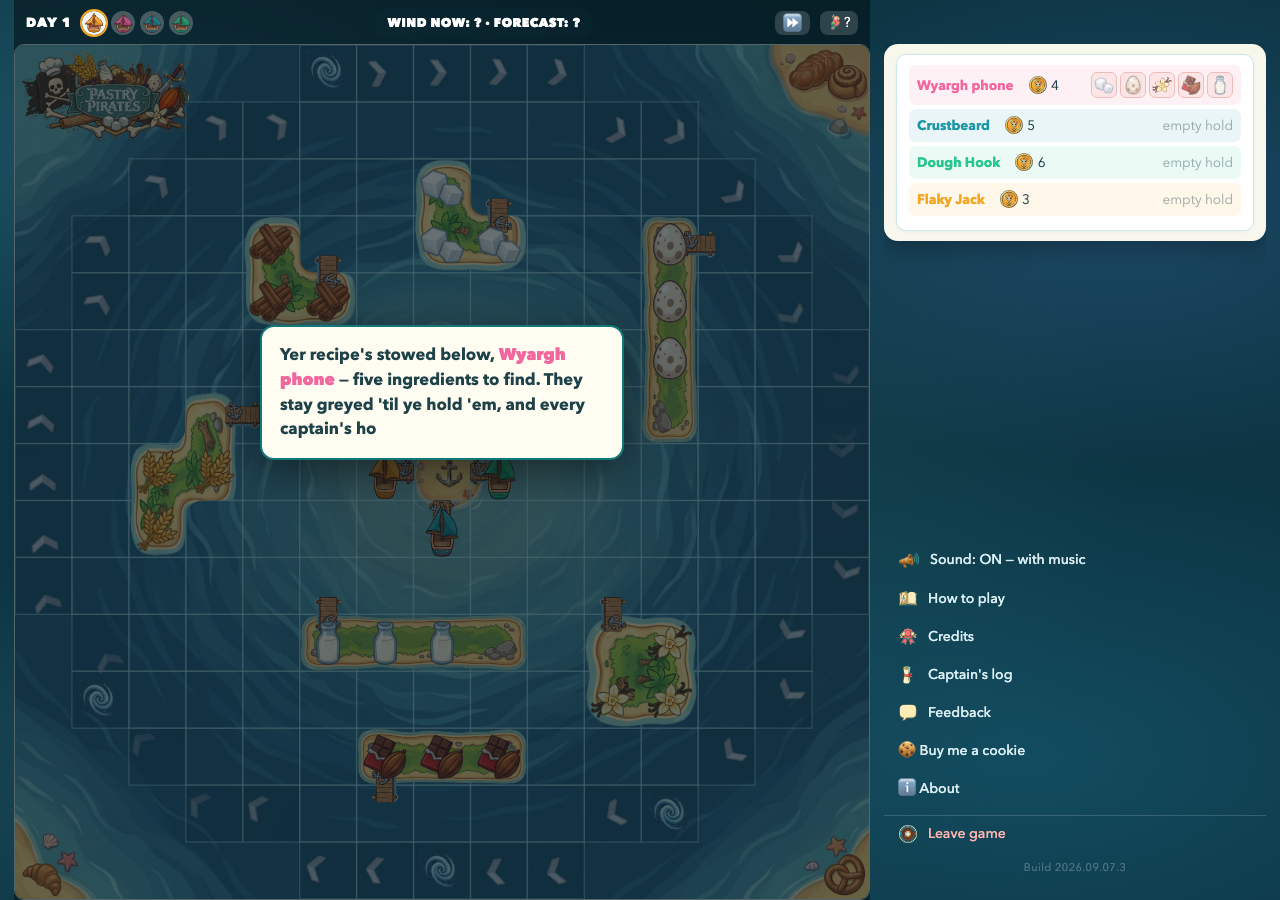
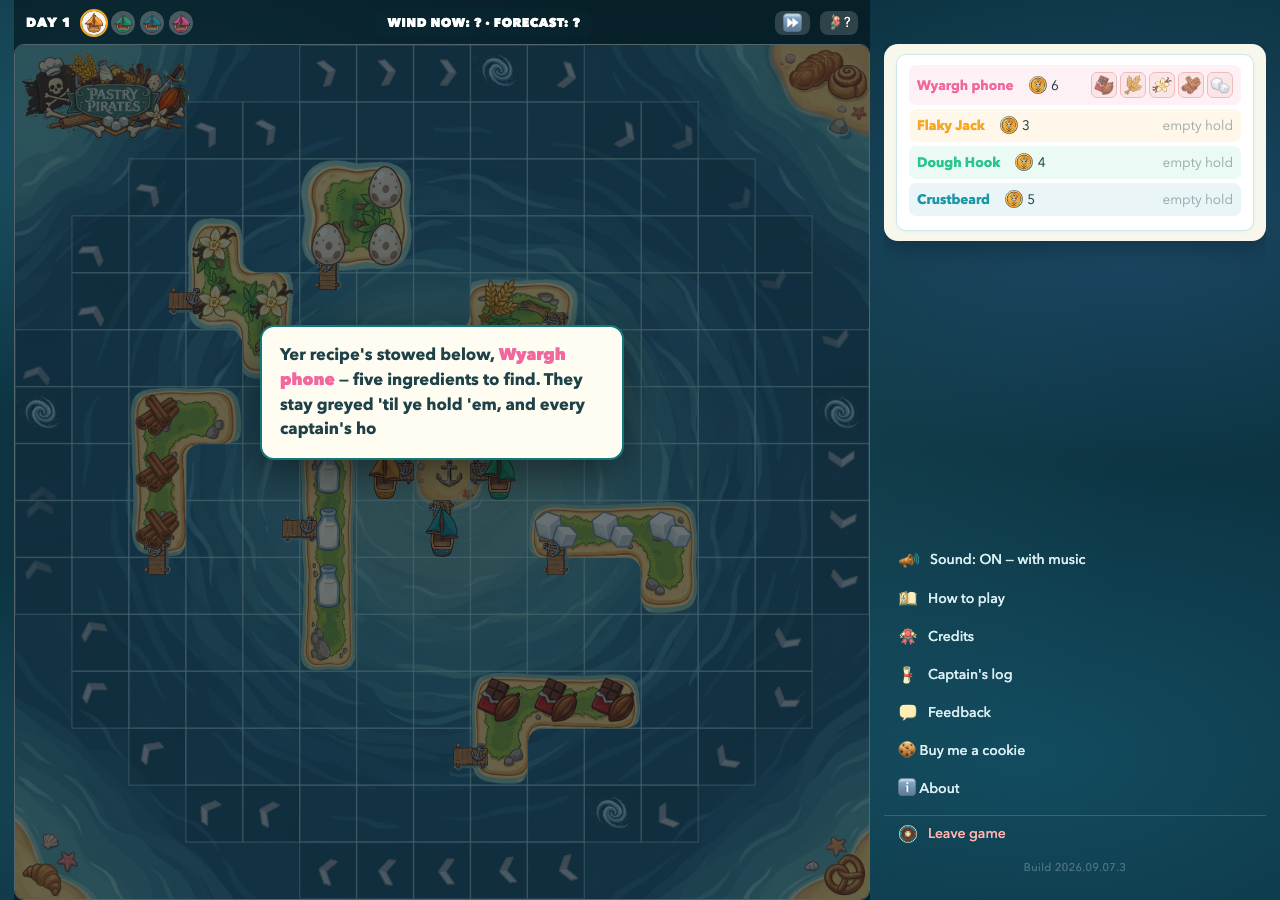
The recipe card is his card at any size: every dimension rides his ratios
Wyatt, 2026-09-10: "I don't care about the objective absolute sizes. I just care about the
ratios. So please shrink things according to the ratios that I outlined in the artifact."

The card's width is now a NUMBER (--rcWn) and every dimension inside it is his tuner number x
--rcK, where k = the width the layout can give / the width he tuned at (360 phone & tablet, 400
desktop). A 225px phone card and a 396px desktop card are both his card, drawn smaller.

Measured by the new scripts/qa/_picker_ratio_check.mjs at 390, 768, 1280x800, 1440x900 and
1920x1080: padding, title size, image width, image shape, both gaps, the ingredient inset and the
back-card peek all read 1.00 x (his number x k); card height equals his tuner card at that scale
within 1px; swapping the pair never moves the stack.

That measurement found two places the game had never drawn what the tuner drew:
- the title still wore the old full-size card's chrome (12px above the name, 9px below, 12px and
  10px each side), so his "gap under the image, 11px" drew as 23px. It now has his gap and a rule
  inset 10px each side, and nothing else.
- his 18% peek slid the tuner's back card 18%, and its .965 scale took 3.5% back, so what he SAW
  was 14.5%. The game was still showing 20%. The sliver is now 14.5%, derived into the transform;
  the smaller reservation also gave the desktop card back 20px (376 -> 396 of his 400).
[…]

diff --git a/index.html b/index.html
@@ -2748,12 +2748,30 @@
        — the box collapsed 362px -> 280px, `100%` collapsed with it, and the card went 250 -> 216
        under his thumb. A constant cannot do that. The row's own min-width below is what stops the
        BOX collapsing, so the circle keeps its place too. */
-    /* ⚠ HIS "50% BIGGER" IS NOT HERE, AND THE REASON IS ARITHMETIC — see the parked note in
-       stage.js. A 375px card needs ~553px of row; the captains column it now lives in has ~382. */
-    /* ⭐ HIS NUMBERS, 2026-09-10, sent from the tuner. Every value below is his; none is derived,
-       adjusted or rounded by me. "send me the numbers and I wire exactly those" — this is that. */
-    --rcW: 360px;                          /* phone & tablet: one card, his point 1 */
-    --rcPeek: calc(var(--rcW) * 0.18);     /* his back-card peek */
+    /* ⭐ HIS CARD IS A SET OF PROPORTIONS, NOT A SET OF PIXELS — Wyatt, 2026-09-10: "I don't care
+       about the objective absolute sizes. I just care about the ratios. So please shrink things
+       according to the ratios that I outlined in the artifact."
+       That rule dissolves both places his numbers would not fit. He tuned each card at a REFERENCE
+       width (360 for phone & tablet, 400 for desktop); whatever width the layout can actually
+       give, every dimension scales by `--rcK = actual / reference`, so a 225px phone card and a
+       376px desktop card are both HIS card, drawn smaller. Nothing inside it is a pixel count any
+       more — which is also rule 9.
+       ⚠ THE WIDTH IS A NUMBER, NOT A LENGTH, and that is load-bearing. CSS cannot divide one
+       length by another to get a ratio, and getComputedStyle hands a calc() custom property back
+       as an UNRESOLVED string — so a JS reader of `--rcPeek: calc(...)` was getting NaN and
+       falling back to a guess. Plain numbers are readable by both. */
+    --rcWn: 360;                           /* the card's width, as a number */
+    --rcRef: 360;                          /* the width he tuned this card at */
+    /* HIS 18% IS WHAT HE SAW AS 14.5%, and this number is what shows. The tuner's "back card peek"
+       slid the back card 18% of a card-width and then scaled it to .965 from its left edge, which
+       pulls its right edge back 3.5% — so the sliver on his screen was 14.5% of the card. This
+       game's value means the sliver itself (the tap strip, the circle and the row's reservation
+       all read it that way), and it was still showing 20%: his number had reached the layout but
+       not the card. Measured 2026-09-10, 0.20 against his 0.145. */
+    --rcPeekFrac: 0.145;
+    --rcW: calc(var(--rcWn) * 1px);
+    --rcK: calc(var(--rcWn) / var(--rcRef));
+    --rcPeek: calc(var(--rcW) * var(--rcPeekFrac));
     --rcGap: 10px;                          /* his 6.5: the circle sits 10px off the back card */
     --rcSwap: 34px; }
   /* ⭐ THE TWO PLACES A NARROW SCREEN IS TREATED DIFFERENTLY, and both numbers are measured
@@ -2771,13 +2789,14 @@
      run clean off the right edge. That is D-38's one unacceptable outcome, a control a captain
      cannot reach, and a sea trial has already caught this exact failure once on passplay-phone.
      So his 360 stands from 431px up (every tablet, and the narrow desktop windows), and a true
-     phone keeps the measured 225. It is on his sheet as a question, because "one card for both"
-     was his instruction and only he can choose which half of it gives way. */
+     phone keeps the measured 225 — and since his ratio ruling the same day, 225 is not a different
+     card: it is his 360 card drawn at 0.625, every proportion intact. That settles the question this
+     note used to park on his sheet ("which half of 'one card for both' gives way"): neither does. */
   @media (max-width: 430px) {
-    body.pp4Stage #actionPanel .apBtns:has(.recipeList) { --rcW: 225px; }
+    body.pp4Stage #actionPanel .apBtns:has(.recipeList) { --rcWn: 225; }
   }
   @media (max-width: 360px) {
-    body.pp4Stage #actionPanel .apBtns:has(.recipeList) { --rcW: 180px; }
+    body.pp4Stage #actionPanel .apBtns:has(.recipeList) { --rcWn: 180; }
   }
   body.pp4Stage #actionPanel .apBtns:has(.recipeList) .apBtn {
     /* ⚠ max-width WAS 250px AND WOULD HAVE SILENTLY EATEN HIS ITEM 3. --rcW is now 375 on a desktop
@@ -2793,7 +2812,7 @@
        clean move. */
     /* ⭐ HIS 2026-09-10 SIZES. The card's transition is derived from RC_SWAP_MS in stage.js rather
        than typed here — .38s IS his 380, and if he re-dials the swap only that constant moves. */
-    padding:14px; transition:transform .38s cubic-bezier(.22,.61,.36,1), opacity .38s; }
+    padding:calc(14px * var(--rcK)); transition:transform .38s cubic-bezier(.22,.61,.36,1), opacity .38s; }
   /* ⚠ THE ROOMIER PADDING IS PART OF HIS DESKTOP ASK AND WAS REACHING PHONES — caught by a CEO
      review, 2026-09-10, after I claimed "below 901 the card is byte-for-byte what it was". It was
      not: this line sat under a comment headed "HIS 2026-09-10 SIZES" with no width on it, so a
@@ -2801,8 +2820,8 @@
      TRANSITION is deliberately not scoped — .38s is derived from RC_SWAP_MS and belongs to the swap
      at every size. */
   @media (min-width: 901px) {
-    body.pp4Stage #actionPanel .apBtns:has(.recipeList) { --rcW: 400px; }
-    body.pp4Stage #actionPanel .apBtns:has(.recipeList) .apBtn { padding:23px; }
+    body.pp4Stage #actionPanel .apBtns:has(.recipeList) { --rcWn: 400; --rcRef: 400; }
+    body.pp4Stage #actionPanel .apBtns:has(.recipeList) .apBtn { padding:calc(23px * var(--rcK)); }
   }
   /* ⭐ "make the cards larger vertically by 50%" — a MIN-HEIGHT derived from the card's own width,
      not a typed pixel count (rule 9). The card was landing near 0.58 of its width; 0.87 is that
@@ -2876,9 +2895,10 @@
        out as 0.2 x min(250, cardWidth - 108) = 28px. Measured, not reasoned: back-card visible
        fraction 0.098 against the 0.20 he asked for.
        So the offset is written as a plain element-relative percentage, which is what a transform
-       wants anyway. -28% is -50% (the centring half) + 22%; the scale below pulls the right edge
-       back by ~1.75% of the width, landing the visible sliver on ~20.25%. */
-    transform:translateX(-28%) scale(.965) rotate(1.1deg);
+       wants anyway. The offset itself is derived from --rcPeekFrac on the next line. */
+    /* the sliver, derived: centred (-50%), then out by the sliver plus the 1.75% the .965 scale
+       takes back on this side (it scales from the top CENTRE here, so half of the 3.5%) */
+    transform:translateX(calc(-50% + (var(--rcPeekFrac) + 0.0175) * 100%)) scale(.965) rotate(1.1deg);
     transform-origin:50% 0; filter:brightness(.93) saturate(.88); opacity:.97; }
   /* THE TAP STRIP over the back card's visible 20% — his 6.7. Transparent by design: the thing a
      captain sees and aims at is the card edge underneath it. Sized and placed from the same three
@@ -2984,46 +3004,35 @@
      with a card that is not on screen, and the ingredient rows it aligned are icons now, not rows.
      Deleted rather than left inert — a rule that no longer applies is the next reader's wrong
      answer about why the layout works. */
-  body.pp4Stage #actionPanel .apBtn .recipeTitle { font-size:19.5px; line-height:1.2; margin-bottom:6px; }
-  /* ⭐ THE TITLE RESERVES ITS LINES, OR THE SWAP JUMPS — the OTHER half of his 2026-09-10 item 1.
-     Fixing the artwork's aspect made two cards the same height at 1920 and 768, and the phone still
-     lurched: measured, 153px against 168px, with the whole difference in the TITLE — 39px for a
-     two-line name against 54px for a three-line one. Recipe names are not one length and a narrow
-     card wraps the long ones further, so which recipe is in FRONT decided how tall the card was.
-     This is the fault the retired subgrid block above used to cover. Its retirement note argued
-     that "one card at a time cannot fall out of step with a card that is not on screen" — true of a
-     static picker, and untrue the moment the cards SWAP, which is exactly what brings the other one
-     on screen. Reserving three lines is the version with no second element in it: no subgrid, no
-     @supports, and a two-line name simply sits in a three-line box.
-     ⚠ 54px IS MEASURED, NOT CHOSEN, and my first attempt at it was a guess that was WRONG IN BOTH
-     DIRECTIONS. I reserved `3 * 1.2em` = 45px on the theory that 39px was two lines; it is not.
-     Every one of the 21 names in RECIPE_BOOK was then rendered at each card width:
-         card 225 -> longest is 54px ("Spiced Cocoa Shortbread")
-         card 250 -> longest is 54px ("Molten Chocolate Lava Cake")
-         card 365 -> longest is 39px — every name fits on ONE line
-     A one-line title box is 39px (a 15px line plus its margins), so 54 is exactly two lines. My 45
-     sat between the two and reserved a line and a half, which is no line count at all.
-     ⚠ AND BELOW THE DESKTOP BREAKPOINT ONLY, because at 365 the measurement says every name is one
-     line — so desktop is already swap-stable and must not grow by 15px to fix a problem it does not
-     have. He has just told me those cards are too big.
-     A 22nd recipe with a longer name means re-running that measurement; it is in
-     scripts/qa/_recipe_title_lines.mjs so it does not have to be rebuilt from memory. */
-  /* ⛔ KEYED TO THE CARD, NOT THE VIEWPORT — and a CEO review caught why that matters, 2026-09-10.
-     I gated this on `max-width: 900px` and claimed "a swap cannot resize the stack at any size".
-     False: the 250px card is used whenever the captains box is NOT a side column, and that decision
-     reads window HEIGHT as well as width (src/ui/stage.js) — so a 950x800 window is "desktop" to a
-     media query and still gets a 250px card with no reservation. A 15px jump on every swap, live,
-     in exactly the shape he filmed.
-     The thing that decides whether a name wraps is the CARD'S width, so that is what the rule asks.
-     ⭐ 274px IS MEASURED, and the measurement is now wide enough to find the edge — the first
-     version sampled 225/250/365 and missed everything in between. All 21 names at nine widths
-     (scripts/qa/_recipe_title_lines.mjs): 54px at 225 and 250, and 39px — one line — at 275 and
-     every width above it. So the boundary is between 250 and 275, and the reservation is needed
-     below 275 and nowhere else. */
-  body.pp4Stage #actionPanel .apBtns:has(.recipeList) .apBtn.recipeCard { container-type: inline-size; }
-  @container (max-width: 274px) {
-    body.pp4Stage #actionPanel .apBtn .recipeTitle { min-height: 54px; }
-  }
+  /* ⭐ THE TITLE IS DRAWN THE WAY HIS TUNER DREW IT — and it was not, until a measurement caught
+     it. The base .recipeTitle rule carries the old full-size card's chrome: 12px of padding above
+     the name, 9px below, 12px each side, and a 10px margin each side. None of that was in the tuner
+     he tuned against, so in the game his "gap under the image, 11px" drew as 23px, and the name had
+     44px less room to sit on one line. Measured 2026-09-10, 47px for a one-line title where his
+     card has 23.
+     His card, from the artifact: the image, his 11px, the name, his 6px, a rule inset 10px each
+     side, then the ingredient row. So the title has no padding but his gap, the rule is drawn by
+     ::before at that inset, and every number rides --rcK. */
+  body.pp4Stage #actionPanel .apBtn .recipeTitle {
+    font-size:calc(19.5px * var(--rcK)); line-height:1.2;
+    /* letter-spacing rides the scale too, or a small card's names would wrap where his do not */
+    letter-spacing:calc(.3px * var(--rcK));
+    position:relative; margin:0; border-bottom:0;
+    padding:0 0 calc(6px * var(--rcK) + 3px);           /* his 6px, then room for the 3px rule */
+    display:grid; justify-items:center; align-items:center; }
+  body.pp4Stage #actionPanel .apBtn .recipeTitle::before {
+    content:""; position:absolute; bottom:0; left:calc(10px * var(--rcK)); right:calc(10px * var(--rcK));
+    border-bottom:3px double #b48a52; }
+  /* the partner's name, invisible, in the same cell — see data-ghost in src/ui/stage.js */
+  body.pp4Stage #actionPanel .apBtn .recipeTitle > .rtName,
+  body.pp4Stage #actionPanel .apBtn .recipeTitle[data-ghost]::after { grid-area:1 / 1; }
+  body.pp4Stage #actionPanel .apBtn .recipeTitle[data-ghost]::after {
+    content:attr(data-ghost); visibility:hidden; }
+  /* (A fixed title reservation stood here — `min-height: 54px` below a 274px card, keyed by a
+     container query. His 2026-09-10 ratio ruling made it wrong twice over: the card is proportional
+     now, so a name wraps at the same place at every width and a pixel threshold means nothing, and
+     54px was measured at the old 12.5px title. Each title now reserves its PARTNER's name instead —
+     data-ghost, above — so the pair is always as tall as its longer name and nothing is counted.) */
   body.pp4Stage #actionPanel .apBtn .recipeThumb { height:54px; width:auto; display:block; margin:0 auto 2px; }
   body.pp4Stage #actionPanel .apBtn .recipeDesc { display:none; }
   /* playtest 21 item 5: every ingredient of both recipes has to be readable WITHOUT SCROLLING, now
@@ -3047,7 +3056,9 @@
   /* his 38px ingredient inset, written the way the tuner computed it: the row's own side padding
      is `38 - the card's padding`, so the row's content starts 38px from the card's edge. */
   body.pp4Stage #actionPanel .apBtn .recipeIcons {
-    display:grid; grid-template-columns:repeat(5,1fr); padding:5px calc(38px - 14px) 2px; gap:5px;
+    display:grid; grid-template-columns:repeat(5,1fr);
+    padding:calc(6px * var(--rcK)) calc((38px - 14px) * var(--rcK)) calc(2px * var(--rcK));
+    gap:calc(5px * var(--rcK));
     justify-items:center; align-items:center; }
   body.pp4Stage #actionPanel .apBtn .recipeIcons .ri { width:100%; }
   body.pp4Stage #actionPanel .apBtn .recipeIcons .ri img {
@@ -3065,14 +3076,15 @@
      `max-width:100%` is the only guard kept: it can shrink the picture if a card is ever narrower
      than the width he chose, but it can never grow it past his number. */
   body.pp4Stage #actionPanel .apBtn .recipeThumb {
-    width:205px; max-width:100%; aspect-ratio:2.31; height:auto; object-fit:contain;
-    margin:0 auto 11px; }
-  body.pp4Stage #actionPanel .apBtn .recipeIcons .ri img { max-width:60px; }
+    width:calc(205px * var(--rcK)); max-width:100%; aspect-ratio:2.31; height:auto; object-fit:contain;
+    margin:0 auto calc(11px * var(--rcK)); }
+  body.pp4Stage #actionPanel .apBtn .recipeIcons .ri img { max-width:calc(60px * var(--rcK)); }
   @media (min-width: 901px) {
-    body.pp4Stage #actionPanel .apBtn .recipeThumb { width:298px; }
-    body.pp4Stage #actionPanel .apBtn .recipeIcons .ri img { max-width:57px; }
+    body.pp4Stage #actionPanel .apBtn .recipeThumb { width:calc(298px * var(--rcK)); }
+    body.pp4Stage #actionPanel .apBtn .recipeIcons .ri img { max-width:calc(57px * var(--rcK)); }
     /* the row inset follows the desktop padding, same 38px total he set */
-    body.pp4Stage #actionPanel .apBtn .recipeIcons { padding:5px calc(38px - 23px) 2px; }
+    body.pp4Stage #actionPanel .apBtn .recipeIcons {
+      padding:calc(6px * var(--rcK)) calc((38px - 23px) * var(--rcK)) calc(2px * var(--rcK)); }
   }
 
   /* THE FOCUSED CARD RESERVES A STRIP FOR THE PILL, rather than the pill covering whatever is

diff --git a/src/ui/stage.js b/src/ui/stage.js
@@ -2531,6 +2531,26 @@ function mountRecipeStack(ap){
   if (key === rcKey) return;
   rcKey = key;
 
+  /* ⭐ EACH TITLE RESERVES ITS PARTNER'S NAME, so a swap cannot move the stack — his 2026-09-10
+     item 1, the jump he filmed. The front card is the one in flow, so whichever recipe is in FRONT
+     decides how tall the stack is. At his two reference widths all 21 names sit on one line
+     (scripts/qa/_recipe_title_lines.mjs), but the card's border is a fixed 2px that does not scale,
+     so on a real 390px phone the longest tips onto a second line — measured, "Chocolate Genoise
+     Sponge Cake". Swapping to it grew the stack by a line. Reserving two lines on EVERY card would
+     put a blank line under names that never need it, which is not his card.
+     So each title carries the other card's name as a data attribute, and the CSS draws it as an
+     invisible ::after in the SAME grid cell as the real name (index.html, search data-ghost). The
+     title is then as tall as the longer of the two, on both cards, at every width, with nothing
+     measured: no per-frame cost, no answer that goes stale when the card scales, and nothing that
+     can read a hidden card as zero lines. Generated content is not in textContent or innerText, and
+     a visibility:hidden box is not in the accessibility tree, so the name a reader hears — and
+     every probe that reads a card — is unchanged. */
+  cards.forEach((c, i) => {
+    const t = c.querySelector(".recipeTitle");
+    const other = cards[(i + 1) % cards.length].querySelector(".recipeTitle");
+    if (t && other) t.dataset.ghost = other.textContent.trim();
+  });
+
   let front = 0;
   const row = cards[0].parentElement;
 
@@ -3722,28 +3742,41 @@ function promptTick(force){
          it to 18% on 2026-09-10, so the true factor is 1.36 and this was quietly costing the card
          width he had asked for. Read it from --rcPeek instead of naming it twice — rule 9, and the
          two can no longer disagree. */
+      /* ⚠ READ AS A PLAIN NUMBER. The first version of this read `--rcPeek` and `--rcW` and divided
+         them — but getComputedStyle hands a calc() custom property back UNRESOLVED, so `--rcPeek`
+         came back as the string "calc(var(--rcW) * 0.18)", parseFloat made NaN of it, and every
+         call fell through to the hardcoded 0.18. Right by coincidence, reading nothing. The peek
+         is its own number now (--rcPeekFrac), so this reads what it claims to. */
       const peekFrac = (() => {
-        const raw = getComputedStyle(rcRow).getPropertyValue("--rcPeek");
-        const px = parseFloat(raw) || 0;
-        const w0 = parseFloat(getComputedStyle(rcRow).getPropertyValue("--rcW")) || 0;
-        const f = (px > 0 && w0 > 0) ? px / w0 : 0.18;
-        return (f > 0.02 && f < 0.6) ? f : 0.18;      // a sane band; never let a bad read shrink the card
+        const f = parseFloat(getComputedStyle(rcRow).getPropertyValue("--rcPeekFrac"));
+        return (f > 0.02 && f < 0.6) ? f : 0.145;     // a sane band; never let a bad read shrink the card
       })();
       const factor = 1 + peekFrac * 2;
       const want = avail > 140 ? Math.max(160, Math.min(RC_CARD_MAX, Math.floor((avail - 8) / factor))) : 0;
-      const now = parseFloat(rcRow.style.getPropertyValue("--rcW")) || 0;
-      if (want && Math.abs(want - now) > 1) rcRow.style.setProperty("--rcW", want + "px");
-      if (!want && now) rcRow.style.removeProperty("--rcW");   // no column to measure: back to the CSS
+      /* ⭐ WRITES THE WIDTH AS A NUMBER, and the whole card scales with it. Wyatt, 2026-09-10: "I
+         don't care about the objective absolute sizes. I just care about the ratios." The CSS turns
+         --rcWn into --rcW (a length) and into --rcK (actual / the width he tuned at), and every
+         dimension inside the card is his number times --rcK. So when this derivation gives 376
+         instead of his 400, the card does not just get narrower — it gets SMALLER, in proportion,
+         and stays his. */
+      const now = parseFloat(rcRow.style.getPropertyValue("--rcWn")) || 0;
+      if (want && Math.abs(want - now) > 1) rcRow.style.setProperty("--rcWn", String(want));
+      if (!want && now) rcRow.style.removeProperty("--rcWn");   // no column to measure: back to the CSS
     }
     const sheetW = (() => {
       const capW = Math.min(brd ? Math.round(brd.width) : vwPx() - 16, vwPx() - 16);
       if (!rcRow) return capW;
       const rs = getComputedStyle(rcRow);
-      const rcW = parseFloat(rs.getPropertyValue("--rcW")) || 250;
+      /* the NUMBER, not --rcW: --rcW is a calc() now, and getComputedStyle would return it
+         unresolved, so parseFloat would silently hand back the 250 fallback every time */
+      const rcW = parseFloat(rs.getPropertyValue("--rcWn")) || 250;
       const pad = (el) => { const c = getComputedStyle(el);
         return (parseFloat(c.paddingLeft) || 0) + (parseFloat(c.paddingRight) || 0)
              + (parseFloat(c.borderLeftWidth) || 0) + (parseFloat(c.borderRightWidth) || 0); };
-      const want = Math.ceil(rcW * 1.4 + 8 + pad(rcRow) + pad(ap) + pad(box));
+      /* card + a peek each side — the same factor the width above was derived from, read from his
+         peek rather than a remembered 1.4 (that was the peek at 20%; he set 18%) */
+      const pf = parseFloat(rs.getPropertyValue("--rcPeekFrac"));
+      const want = Math.ceil(rcW * (1 + 2 * ((pf > 0.02 && pf < 0.6) ? pf : 0.145)) + 8 + pad(rcRow) + pad(ap) + pad(box));
       return Math.max(200, Math.min(want, capW));
     })();
     const RC_INSET = 10;

diff --git a/src/ui/recipe.js b/src/ui/recipe.js
@@ -379,7 +379,8 @@ export function recipeCardHTML(recipe){
   const info=recipeInfo(recipe);
   const items=recipe.map(i=>`<span class="ri" data-ing="${i}">${ingImg(i)}</span>`).join("");
   const thumb=info&&info.img?`<img class="recipeThumb" src="${info.img}" alt="">`:"";
-  return thumb+`<div class="recipeTitle">${recipeTitle(recipe)}</div>`+
+  // the name is wrapped so it can share one grid cell with its partner's (see data-ghost, stage.js)
+  return thumb+`<div class="recipeTitle"><span class="rtName">${recipeTitle(recipe)}</span></div>`+
     `<div class="recipeList recipeIcons">${items}</div>`;
 }
 // ---- recipe modal: click a player's recipe name (in the captain's row, once one is chosen) to

diff --git a/.planning/BACKLOG.md b/.planning/BACKLOG.md
@@ -1246,7 +1246,16 @@ title reservation twice, the image inset twice — and two of those guesses were
 check against a browser. This is not a tool for me. **When his numbers arrive, wire exactly those
 and nothing else.**
 
-- [ ] wire his FINAL numbers into index.html the moment he sends them, and nothing beside them.
+- [x] ✅ 2026-09-10 — wired, AS RATIOS (his ruling: "I don't care about the objective absolute
+      sizes. I just care about the ratios."). The card's width is a number (--rcWn) and every
+      dimension is his number x --rcK = width / the width he tuned at (360 phone & tablet, 400
+      desktop). Measured by scripts/qa/_picker_ratio_check.mjs at 390, 768, 1280, 1440, 1920:
+      every ratio 1.00, card height = his tuner card x k within 1px, no swap jump. Two places the
+      game did not draw what the tuner drew were found BY that measurement and fixed: the title's
+      old chrome (12px/9px padding, 10px margins) turned his 11px gap into 23px; and his 18% peek
+      (a slide in the tuner, 14.5% visible after the .965 scale) was still showing 20%.
+      Was-wired-but-stale line kept below for the record:
+- [x] wire his FINAL numbers into index.html the moment he sends them, and nothing beside them.
       His 2026-09-10 set is loaded into the tuner as its starting point, but he was explicit that
       they are "as close as I can make your current structure represent my ideal" — approximations
       limited by the tool, not the answer. **Do not wire them until he sends a set from the
@@ -1269,7 +1278,10 @@ replaced with his explicit width, not just mirrored.
       couple of hundred pixels higher up the same column and nothing in the calculation knew it was
       there. The floor is now whichever comes first, the glass or the menu's top, read off
       #footerRow. Measured: clear at 1920 and at 1440x900 (the size of his screenshot).
-- [?] **A 20px overlap SURVIVES at 1280x800, and where the pill goes then is HIS call.** Measured:
+- [x] ✅ 2026-09-10 — **GONE, by measurement, once the card became proportional.** 1280x800: pill
+      359–381, menu top 437 — clear by 56px (scripts/qa/_pill_clears_menu_check.mjs, all three
+      desktop sizes clear). No ruling needed. The original entry, for the record:
+      ~~A 20px overlap SURVIVES at 1280x800, and where the pill goes then is HIS call.~~ Measured:
       pill 435–457, menu top 437. The sheet is already lifted to the top band — the ribbon and the
       wind pill live above it — so the column genuinely cannot hold the ask, the card and the pill
       above the menu at that height. Only two ways out and both are taste, not mechanism:
